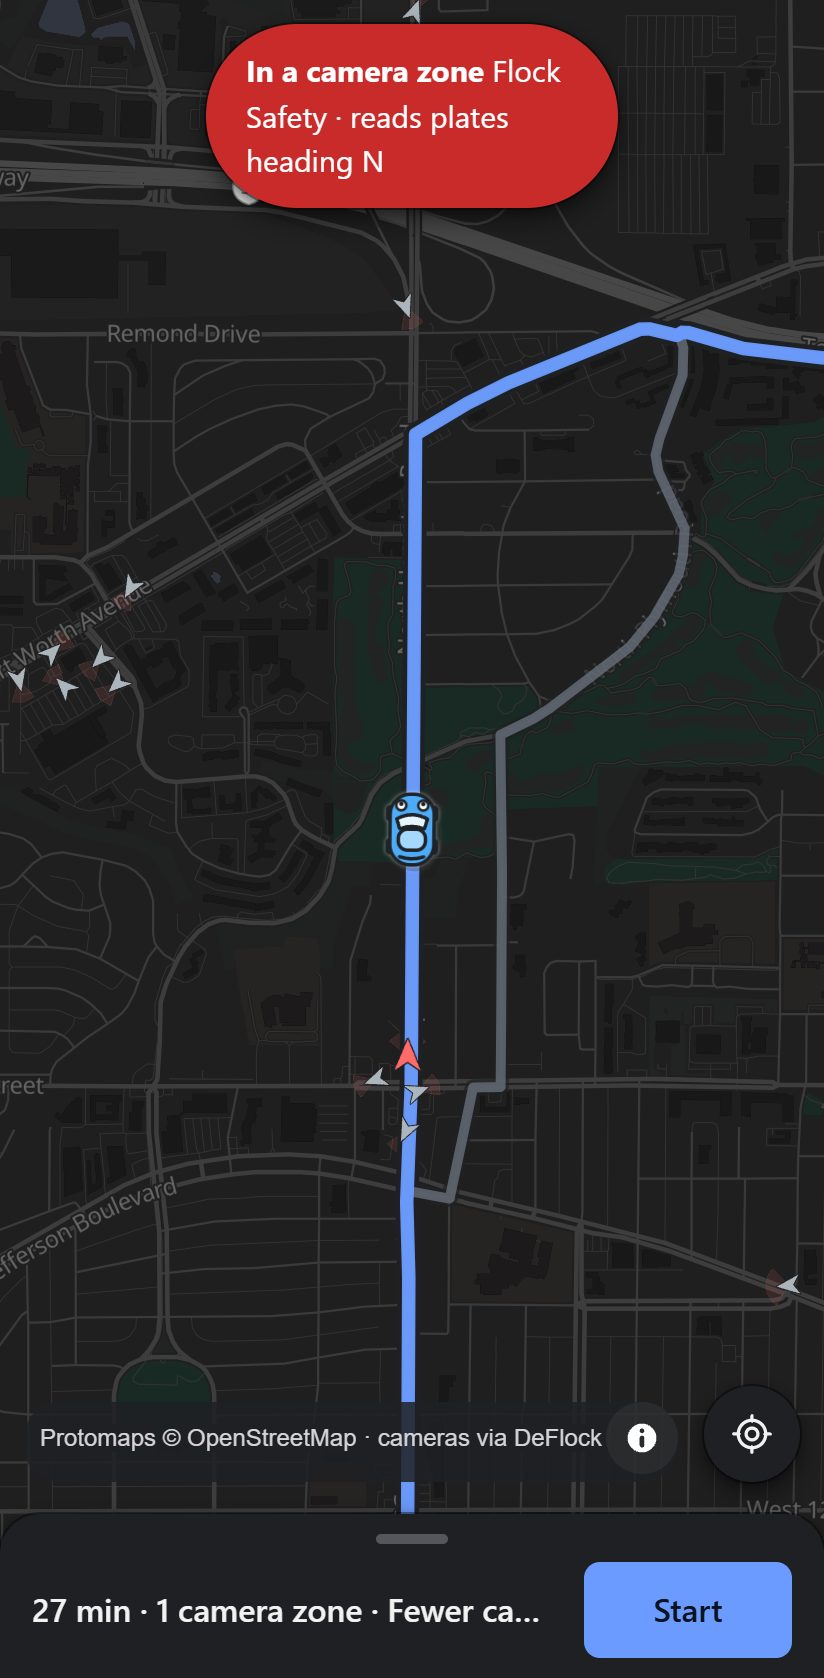
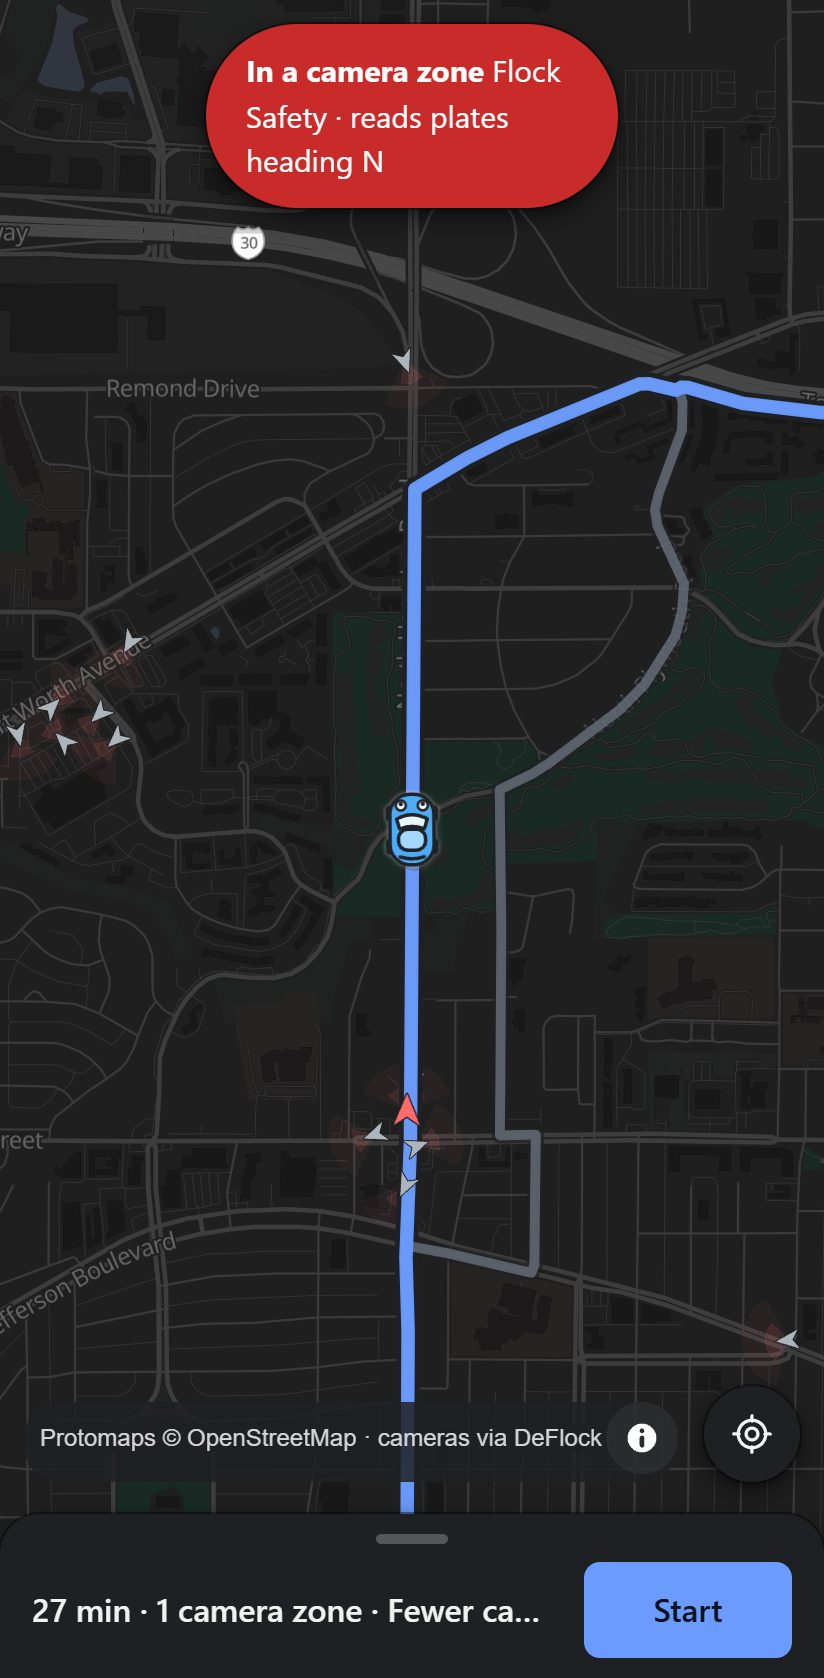
README: how far cameras see, rings, and screenshots retaken
How it works now explains rings, and a new question answers how far away a camera can see you:
Flock's published range for its standard camera, how the zones and rings pad it, and the models
with no published range. "Is this legal?" adds that covering a plate doesn't help, since Flock
logs make, model, colour and features too. The screenshots are retaken with rings and the new
route options.

diff --git a/README.md b/README.md
@@ -9,7 +9,7 @@ phone's browser, installs to your home screen like an app, and never sends your 
 destination or your searches anywhere.
 
 <p align="center">
-  <img src="docs/images/desktop.jpg" width="900" alt="AvoiDLPR on a laptop. A trip across Dallas has four route options in a card over the map, from the fastest (26 minutes, through 6 camera zones) to the one with the fewest cameras (28 minutes, through none). The recommended one, 27 minutes through 1 zone, is selected and drawn in blue. Each camera is drawn on the map as an arrow showing which way it points.">
+  <img src="docs/images/desktop.jpg" width="900" alt="AvoiDLPR on a laptop. A trip across Dallas has four route options in a card over the map, from the fastest (26 minutes, through 6 camera zones and near 3 more cameras) to the one with the fewest cameras (29 minutes, through none and near none). The recommended one, 27 minutes through 1 zone, is selected and drawn in blue. Each camera is drawn on the map as an arrow showing which way it points.">
 </p>
 
 > **Status:** built for 135 US metro areas, from New York to Los Angeles and Charlotte to
@@ -38,7 +38,7 @@ is a good place to learn more.
   &nbsp;
   <img src="docs/images/phone-search.jpg" width="200" alt="Searching on a phone: the search fills the screen. The start is 'Your location', and typing 'fair park' as the destination lists Fair Park's station and neighborhood, the Music Hall at Fair Park and other matches, each with what it is, its town and how far away it is.">
   &nbsp;
-  <img src="docs/images/phone-routes.jpg" width="200" alt="On a phone: the trip's route options in a sheet under the map, with the fewest-cameras option (28 minutes, no camera zones) selected and a Start button at the top of the sheet.">
+  <img src="docs/images/phone-routes.jpg" width="200" alt="On a phone: the trip's route options in a sheet under the map, with the fewest-cameras option (29 minutes, no camera zones) selected and a Start button at the top of the sheet.">
   &nbsp;
   <img src="docs/images/phone-drive.jpg" width="200" alt="Previewing the drive on a phone in dark mode: the little car drives the route on a dark map, and a red banner reads 'In a camera zone: Flock Safety, reads plates heading N' as it passes a camera.">
 </p>
@@ -50,10 +50,13 @@ is a good place to learn more.
    cameras read rear plates, so they only log cars driving away from them, in one direction.
    When the map says which way a camera points, AvoiDLPR only counts it against routes that
    drive through its view in that direction. When it doesn't, AvoiDLPR assumes the camera can
-   see every road around it.
+   see every road around it. Around each zone, a wider, fainter ring marks where a camera may
+   still see you: some models reach further than the one Flock publishes a range for, and
+   oncoming cars show their fronts. Routes go around rings when that costs almost nothing, and
+   the app tells you when you're in one.
 3. **Route options.** For each trip you get the fastest route plus up to three others that
-   trade a few minutes for fewer camera zones, each labelled with its time and its number of
-   zones. The one marked *Recommended* avoids the most zones while adding no more than about
+   trade a few minutes for fewer camera zones, each labelled with its time, its number of
+   zones and how many cameras it passes near. The one marked *Recommended* avoids the most zones while adding no more than about
    10% to the trip. You pick.
 4. **Drive.** Tap **Start** and AvoiDLPR follows your phone's GPS along the route: a warning
    before each camera zone, a banner and a chime while you're in one, and a new route if you
@@ -95,10 +98,18 @@ publishes it. Every camera in the app links to its OpenStreetMap entry.
 ## Questions
 
 **Is this legal?** Choosing your route is. AvoiDLPR doesn't interfere with cameras and doesn't
-hide your plate. Don't cover or alter your plate either: that's illegal in most states.
+hide your plate. Don't cover or alter your plate either: that's illegal in most states, and it
+doesn't help, because Flock also logs each car's make, model, color and features like roof racks
+and bumper stickers.
 
 **Does "0 camera zones" mean nobody saw me?** No. It means the route passes no *mapped*
 cameras. Many cameras aren't mapped yet, and readers mounted on police cars move around.
+
+**How far away can a camera see me?** Flock says its standard camera reads plates up to about 75
+feet away. AvoiDLPR's zones reach about twice that, allowing for cameras mapped a little off their
+real spot, and each has a ring beyond it where a camera may still see you. Flock also sells
+long-range and zoom cameras with no published range, and the camera map doesn't say which model is
+which, so the rings matter.
 
 **Why does the recommended route still pass a camera?** Sometimes there's no reasonable way
 around one. AvoiDLPR shows you the options and lets you decide.
